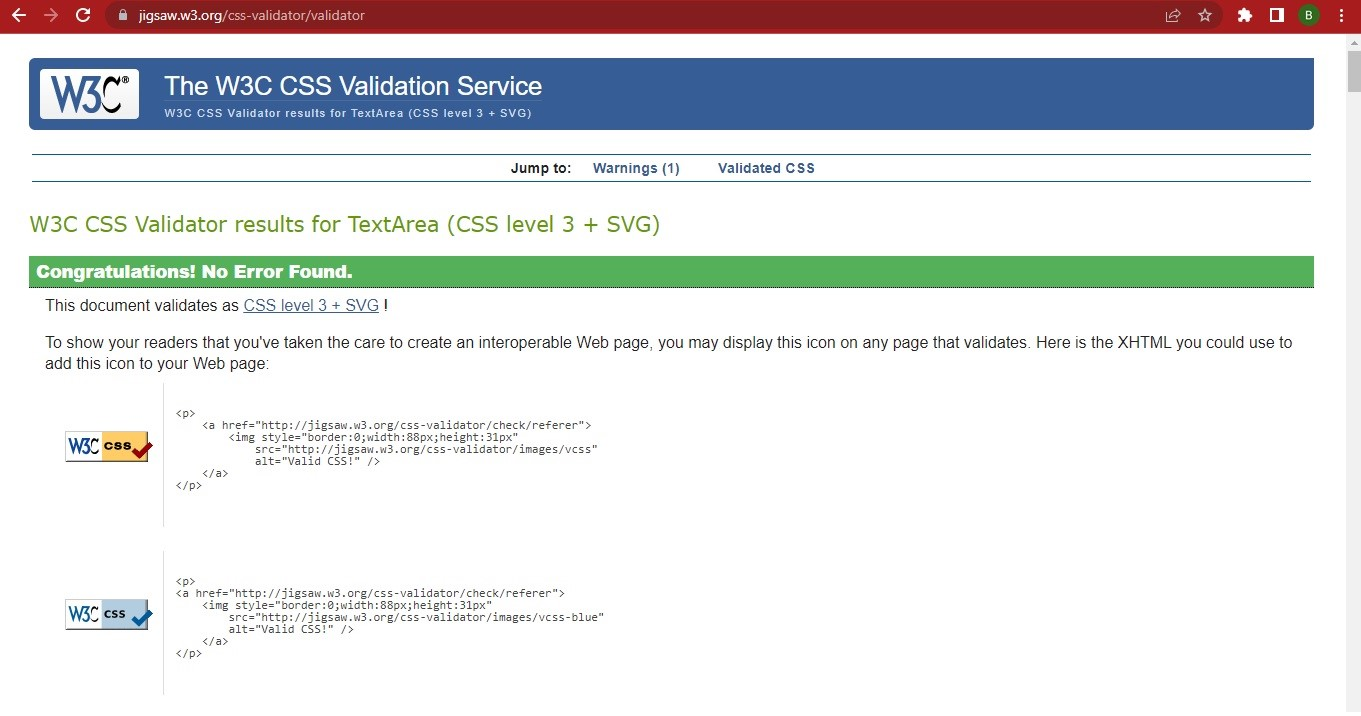
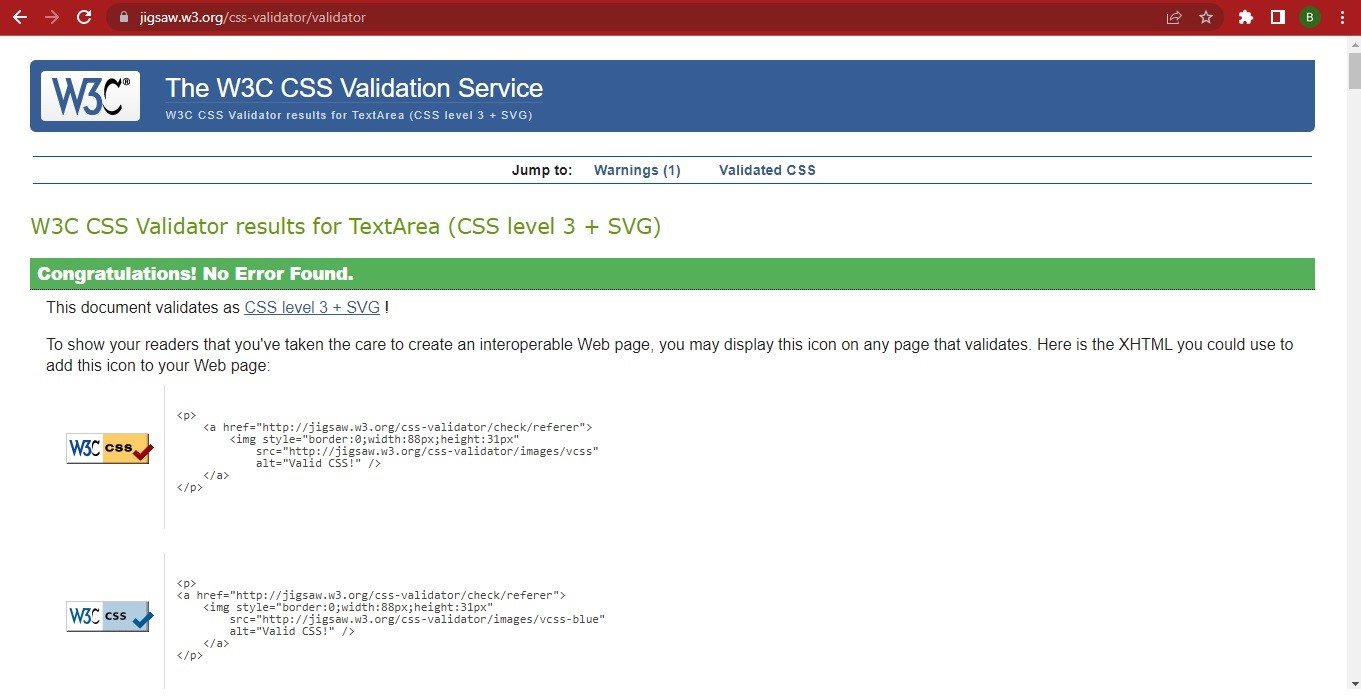
Update the Html, Css validator and Lighthouse test images after Home nav item removed

diff --git a/README.md b/README.md
@@ -92,6 +92,9 @@ At various stages HTML Validator testing was done.
 * ## CSS Validator
 At various stages CSS Validator testing was done.
 ![CSS Validator](/assets/images/readmeimages/CssValidator.jpg "CSS Validator Image")
+
+The below warning during the test is due to imported Google fonts. CSS validator is informing that it has not checked imported style sheets which is Google Fonts in this case.
+![CSS Validator Warning](/assets/images/readmeimages/CssValidatorWarning.jpg "CSS Validator Warning Image")
 * ## Lighthouse
 At various stages Lighthouse testing was done.
 ![Lighthouse Testing](/assets/images/readmeimages/LighthouseTesting.jpg "Lighthouse Testing Image")
